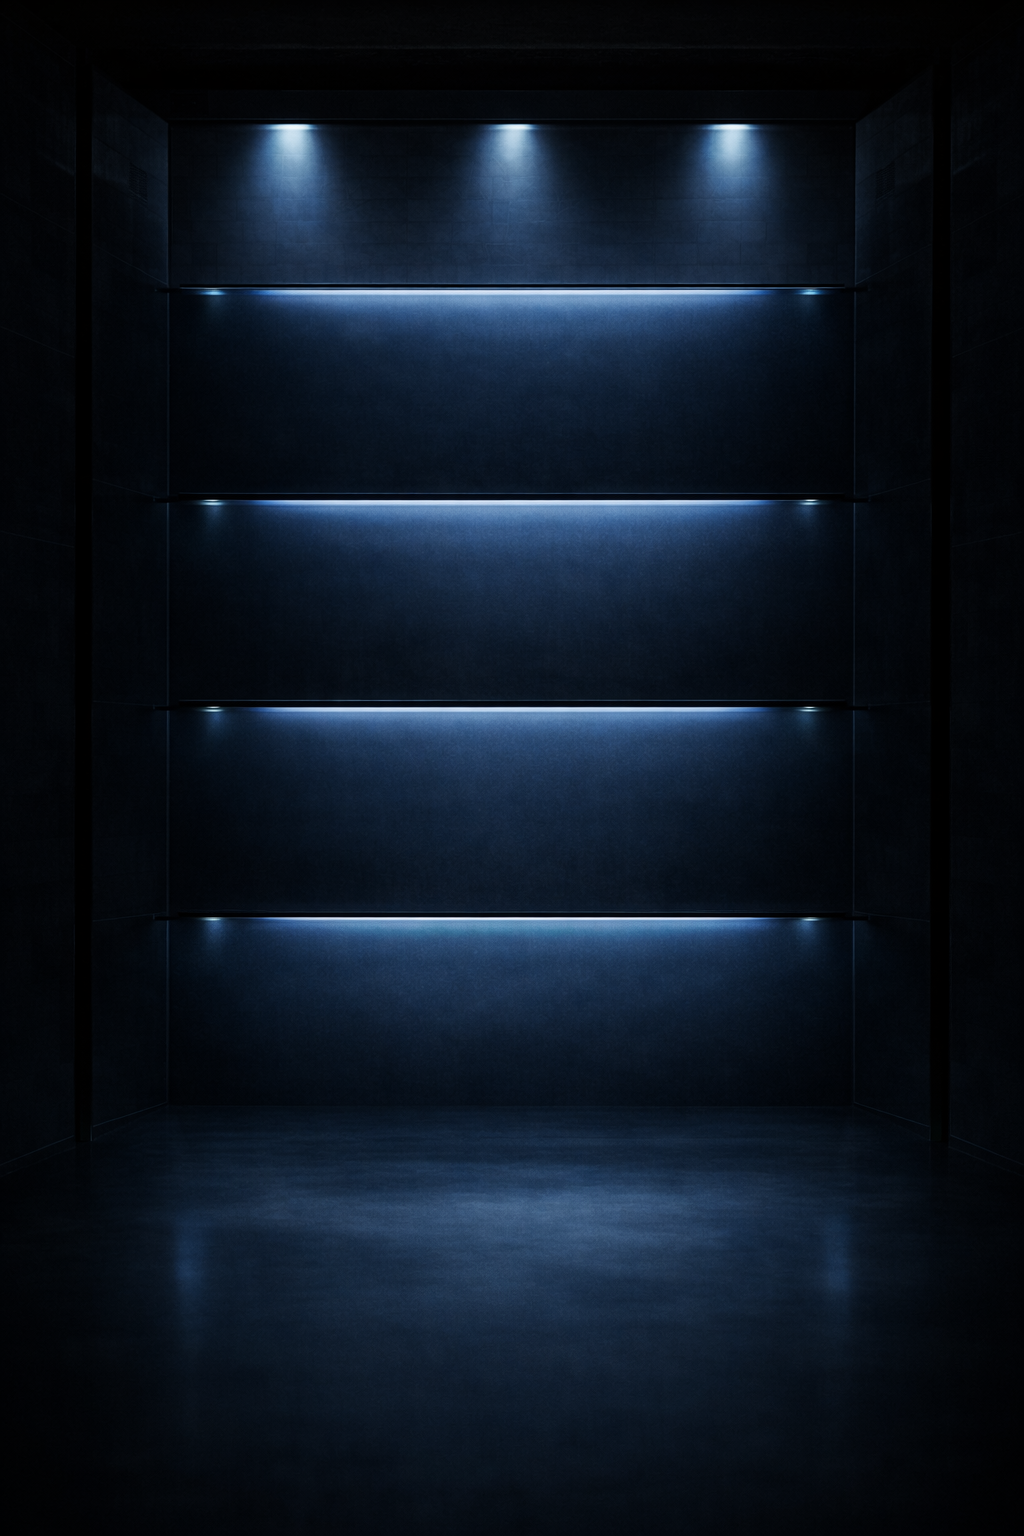
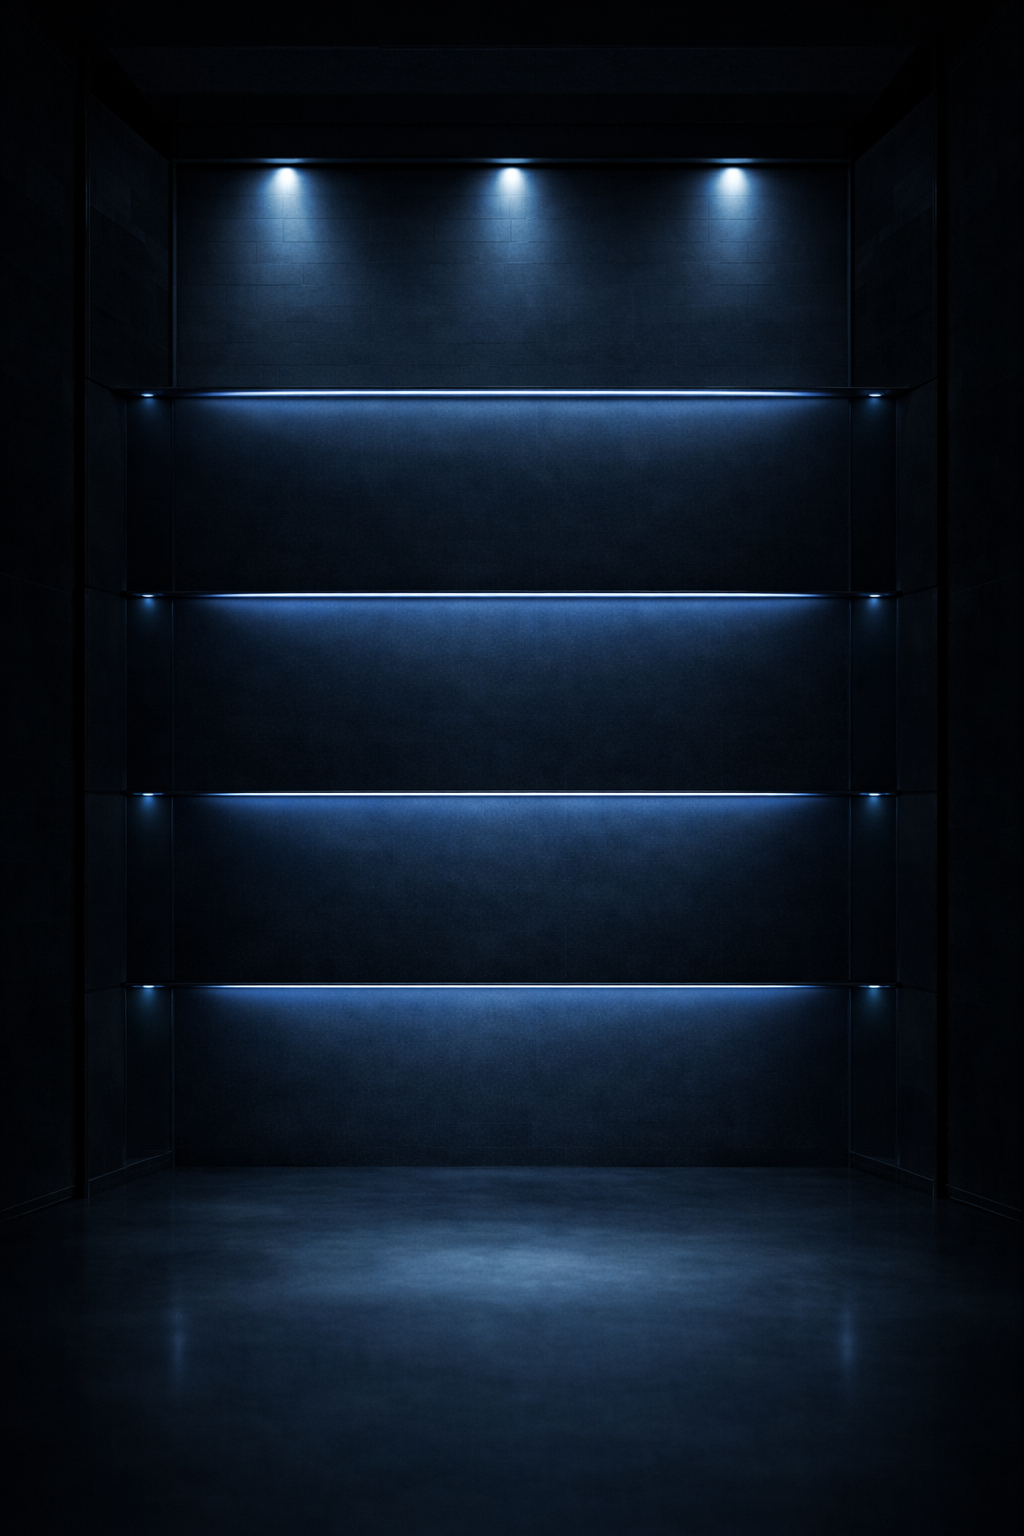
fix: stretch and align midnight gallery background

diff --git a/src/components/gallery/GalleryShelfScene.tsx b/src/components/gallery/GalleryShelfScene.tsx
@@ -186,8 +186,8 @@ export default function GalleryShelfScene({
   const backgroundStyle: CSSProperties | undefined = sceneBackground
     ? {
         backgroundImage: `url(${sceneBackground})`,
-        backgroundSize: "cover",
-        backgroundPosition: "center",
+        backgroundSize: "100% 118%",
+        backgroundPosition: "center top",
         backgroundRepeat: "no-repeat",
       }
     : undefined;
